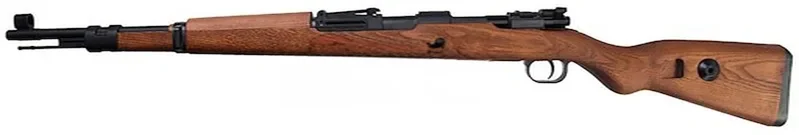
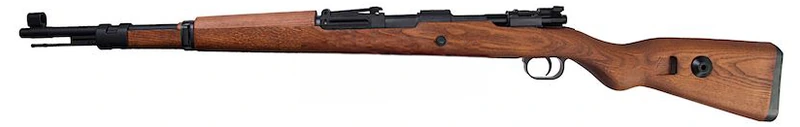
Fix Kar98k SE product image, remove prices from email cards, Deploy button matches quiz style, rename email CTA

diff --git a/cod.html b/cod.html
@@ -369,7 +369,7 @@ h2.q-title{font-family:'Saira Condensed';font-weight:700;font-size:clamp(22px,4.
         <p class="eb-sub">Get your full role breakdown, your recommended platform list, and first-access deals. One email. Unsubscribe anytime.</p>
         <form id="email-form" autocomplete="off" onsubmit="return false;">
           <input type="email" id="email-in" placeholder="you@example.com" required>
-          <button type="submit" class="btn" id="email-btn">Send Me My File</button>
+          <button type="submit" class="btn" id="email-btn">Send My Assessment</button>
         </form>
         <div class="eb-ok" id="email-ok" style="display:none;">✅ Locked in. Watch your inbox for your Combat Assessment — we'll send training notes and deals for your platform.</div>
       </div>

diff --git a/gta6.html b/gta6.html
@@ -369,7 +369,7 @@ h2.q-title{font-family:'Saira Condensed';font-weight:700;font-size:clamp(22px,4.
         <p class="eb-sub">Get your full role breakdown, your recommended platform list, and first-access deals. One email. Unsubscribe anytime.</p>
         <form id="email-form" autocomplete="off" onsubmit="return false;">
           <input type="email" id="email-in" placeholder="you@example.com" required>
-          <button type="submit" class="btn" id="email-btn">Send Me My File</button>
+          <button type="submit" class="btn" id="email-btn">Send My Assessment</button>
         </form>
         <div class="eb-ok" id="email-ok" style="display:none;">✅ Locked in. Watch your inbox for your Combat Assessment — we'll send training notes and deals for your platform.</div>
       </div>

diff --git a/pubg.html b/pubg.html
@@ -375,7 +375,7 @@ h2.q-title{font-family:'Saira Condensed';font-weight:700;font-size:clamp(22px,4.
         <p class="eb-sub">Get your full role breakdown, your recommended platform list, and first-access deals. One email. Unsubscribe anytime.</p>
         <form id="email-form" autocomplete="off" onsubmit="return false;">
           <input type="email" id="email-in" placeholder="you@example.com" required>
-          <button type="submit" class="btn" id="email-btn">Send Me My File</button>
+          <button type="submit" class="btn" id="email-btn">Send My Assessment</button>
         </form>
         <div class="eb-ok" id="email-ok" style="display:none;">✅ Locked in. Watch your inbox for your Combat Assessment — we'll send training notes and deals for your platform.</div>
       </div>

diff --git a/ready-or-not.html b/ready-or-not.html
@@ -375,7 +375,7 @@ h2.q-title{font-family:'Saira Condensed';font-weight:700;font-size:clamp(22px,4.
         <p class="eb-sub">Get your full role breakdown, your recommended platform list, and first-access deals. One email. Unsubscribe anytime.</p>
         <form id="email-form" autocomplete="off" onsubmit="return false;">
           <input type="email" id="email-in" placeholder="you@example.com" required>
-          <button type="submit" class="btn" id="email-btn">Send Me My File</button>
+          <button type="submit" class="btn" id="email-btn">Send My Assessment</button>
         </form>
         <div class="eb-ok" id="email-ok" style="display:none;">✅ Locked in. Watch your inbox for your Combat Assessment — we'll send training notes and deals for your platform.</div>
       </div>
